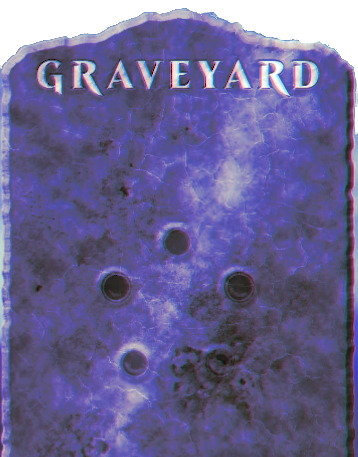
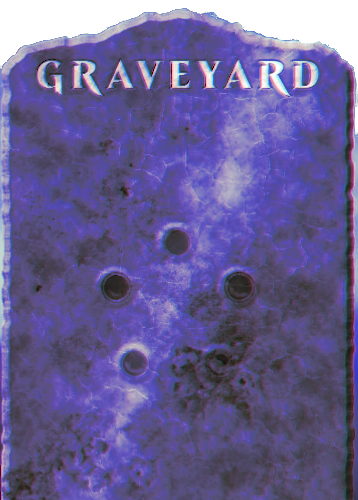
[FIX] Fix graveyard images

diff --git a/src/main/resources/static/css/Board.css b/src/main/resources/static/css/Board.css
@@ -146,7 +146,9 @@ GraveyardPlayer {
     border-bottom: 6px solid deepskyblue;
     display: flex;
     background: #6596EBb3 url("../img/Graveyard-back-blue.png") no-repeat;
-    background-size: 120px;
+    background-size: 114px;
+    background-position-x: 2px;
+    background-position-y: 6px;
     padding-top: 6px;
 }
 
@@ -196,7 +198,9 @@ GraveyardOpp {
     z-index: 3;
     display: flex;
     background: #ff000055 url("../img/Graveyard-back-red.png") no-repeat;
-    background-size: 120px;
+    background-size: 114px;
+    background-position-x: 2px;
+    background-position-y: 3px;
     padding-top: 1px;
 }
 
